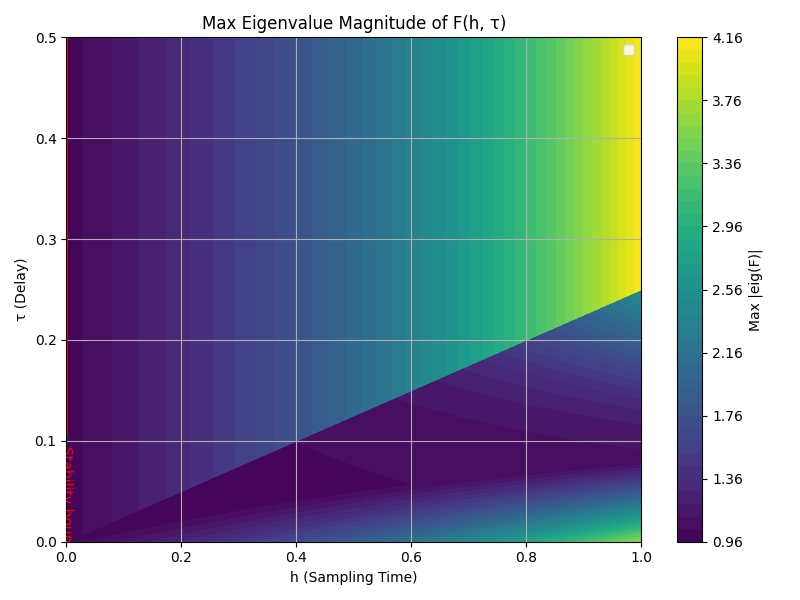
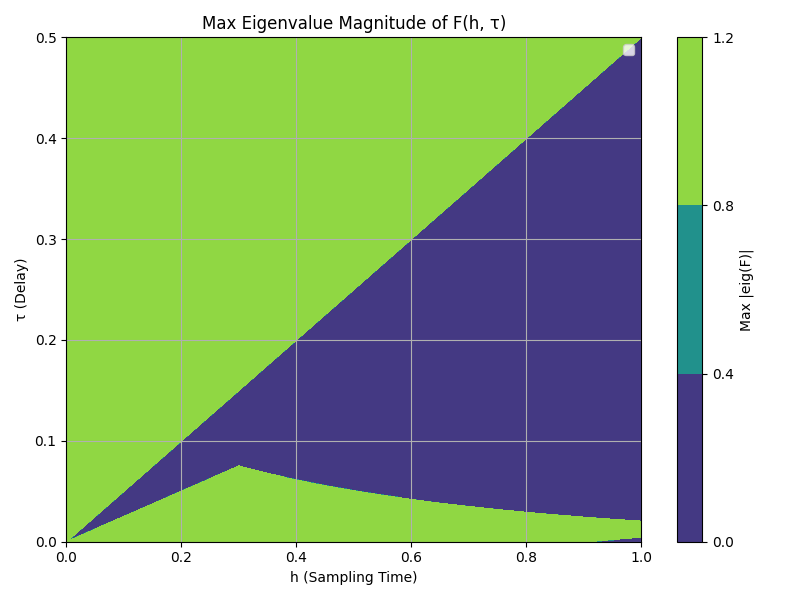
added assignment 1 Q2 logic and pictures

diff --git a/2nd year/Assignment1/Assignment1_2026.py b/2nd year/Assignment1/Assignment1_2026.py
@@ -23,7 +23,7 @@ b = 8 # third digit student number
 c = 1 # last digid digit student number
 # iterations
 N = 1000
-K_Samples = 5*N+1
+K_Samples = 51
 h_max = 0.5
 """pre-calculations Kappa"""
 A = np.array([[0,(0.5+c)],[(0.5+abs(a-b)),1]])
@@ -71,17 +71,37 @@ def FG_model_delay(A,B,h,tau):
     if singular == n:
         Fx = expm(A*h) # 2x2
         temp = expm(A*(h-tau)) # 2x2
-        Fu = ((Fx-temp)@(np.linalg.inv(A)))@B # 2x1
+        if tau<=h:
+            Fu = ((Fx-temp)@(np.linalg.inv(A)))@B # 2x1
+        elif tau>h:
+            Fu = np.zeros((n,m)) # 2x1
         G1 = ((temp-np.eye(n))@(np.linalg.inv(A)))@B # 2x1
-        F = np.block([[Fx, Fu, np.zeros((n,m))], [np.zeros((m,n)), np.zeros((m,m)), np.zeros((m,m))], [np.zeros((m,n)), np.eye(m),np.zeros((m,m))]]) # 4x4
-        G = np.block([[G1],[np.eye(m)],[np.zeros((m,m))]])
-        ##np.vstack((G1, np.eye(m)), np.zeros((m,m))) # 4x1
+        F = np.block([[Fx, Fu], [np.zeros((m,n+m))]]) # 3x3
+        G = np.block([[G1],[np.eye(m)]])
+        ##np.vstack((G1, np.eye(m)), np.zeros((m,m))) # 3x1
         return F,G
     else:
         # if not invertable:
         print("A is a singular matrix")
         return np.nan,np.nan,np.nan,np.nan,np.nan
 
+def find_optimal_K(A,B,h,tau_vals):
+    n = A.shape[0]
+    m = B.shape[1]
+    K = cp.Variable((2,1))
+    stable_points = []
+    constraints = []
+    for tau in tau_vals:
+        F,G = FG_model_delay(A,B,h,tau)
+        Acl = F-G@(K.reshape(1,-1))
+        constraints += [cp.lambda_max(A_cl)<1]
+    prob = cp.Problem(cp.Maximize(cp.trace(tau)), constraints)
+    prob.solve(solver=cp.SCS, max_iters=5000, eps=1e-5)
+    if prob.status == 'optimal':
+        return K.value
+    else:
+        return False
+    
 def calculate_FG_delay_extended(A,B,h,tau):
     # F values:
     n = A.shape[0]
@@ -157,7 +177,8 @@ def checkElements(F,G,Kappa_vals):
     out = []
     i=0
     for i, K in enumerate(Kappa_vals.T):
-        A_cl = F-G@(K.reshape(1,-1))
+        Kex = np.hstack((K.reshape(1, -1),np.zeros((1,1))))
+        A_cl = F-G@(Kex.reshape(1,-1))
         eigenvalues = np.linalg.eigvals(A_cl)
         if (np.max(np.abs(eigenvalues)) < 1):
             out.append(i) # index of Kappa
@@ -211,58 +232,65 @@ plt.show()
 
 
 """ Question 2 """
+# 
 tau_vals = np.linspace(0, 2*h_max, N)
 max_eig_delay_total = []
 best_K_index = []
 # with extended state an extended Kappa is needed aswell using the static controller:
-Ke = np.hstack((K, np.eye(1), np.zeros((1,1)))) # 1x4 since [K,1,0], not sure about 1 though?
+Ke = np.hstack((K, np.zeros((1,1)))) # 1x3
 
-#Ke_vals = np.linspace(-10, 10, K_Samples) #?
-#dynamicKappa_vals = np.stack([np.ones_like(Ke_vals)*K[0,0],np.ones_like(Ke_vals)*K[0,1], Ke_vals]) #?
 for i,h in enumerate(h_vals):
     print("progress Q2:",(i/N)*100,"%")
     max_eig_delay = []
     for tau in tau_vals:
-        if tau<h: # case where tau < h
+        if tau<2*h: # case where tau < 2h
             F,G = FG_model_delay(A,B,h,tau)
             A_cl = F-G@Ke
             eigenvalues = np.linalg.eigvals(A_cl)
             temp = np.max(np.abs(eigenvalues))
             max_eig_delay.append(temp)
-        else: # case where tau > h
-            F,_ = FG_model_delay(A,B,h,tau)
-            eigenvalues = np.linalg.eigvals(F)
-            temp = np.max(np.abs(eigenvalues))
-            max_eig_delay.append(temp)
+        else: # case where exceeds boundary of 2h
+            max_eig_delay.append(np.nan)
     max_eig_delay_total.append(max_eig_delay)
 
-# h= 0.6 is arbitrarily chosen while being stable at tau=0
+# h= 0.3 is arbitrarily chosen while being stable at tau=0
 # we use the dynamic Kappa for this with variable dynamic control.
-#h = 0.6
-#for tau in tau_vals:
-#    if tau<h:
-#        F,G = calculate_FG_delay(A,B,h,tau)
-#        bestKappaIndex.extend(checkElements(F,G,dynamicKappa_vals))
+k1_range = np.linspace(-20, 20, K_Samples)
+k2_range = np.linspace(-20, 20, K_Samples)
 
-#commonKappa = Counter(bestKappaIndex).most_common(10)
-#print(commonKappa)
-#print("The most valid values for K are:", dynamicKappa_vals[:,commonKappa[0][0]])
+K1, K2 = np.meshgrid(k1_range, k2_range)
+
+dynamic_K_vals = np.vstack([
+    K1.ravel(),
+    K2.ravel()
+])
+print(dynamic_K_vals)
+best_K_Index = []
+h = 0.3
+for i,tau in enumerate(tau_vals):
+    print("progress Q2, K optimisation:",(i/N)*100,"%")
+    if tau<2*h:
+        F,G = FG_model_delay(A,B,h,tau)
+        best_K_Index.extend(checkElements(F,G,dynamic_K_vals))
+
+commonKappa = Counter(best_K_Index)
+print(commonKappa)
+#print("The most valid values for K are:", dynamic_K_vals[:,commonKappa[0][0]])
 
 ## Plotting
-
-Z1 = np.array(max_eig_delay_total) # Convert to NumPy array for plotting
+Z1 = np.where(np.array((max_eig_delay_total))>=1,0,1) # Convert to NumPy array for plotting & make 1 for stable, 0 for unstable
 
 # Create meshgrid for contour plot
 H, T = np.meshgrid(h_vals,tau_vals)  # note the order: row = h, column = tau
 
 # Plot contour where max eigenvalue magnitude = 1
 plt.figure(figsize=(8, 6))
-contour = plt.contourf(T, H, Z1, levels=50, cmap='viridis')
+contour = plt.contourf(T, H, Z1, levels=2, cmap='viridis')
 plt.colorbar(contour, label='Max |eig(F)|')
 
 # Add stability boundary (e.g., contour where max eig = 1)
-cs = plt.contour(T, H, Z1, levels=[1.0], colors='red', linewidths=2)
-plt.clabel(cs, inline=True, fmt='Stability boundary', fontsize=10)
+#cs = plt.contour(T, H, Z1, levels=[1.0], colors='red', linewidths=2)
+#plt.clabel(cs, inline=True, fmt='Stability boundary', fontsize=10)
 
 # Labels
 plt.ylabel('τ (Delay)')
@@ -273,6 +301,73 @@ plt.grid(True)
 plt.tight_layout()
 plt.savefig("Q2_stabilityOfNCS.png")
 plt.show()
+
+# Unpack the data
+# Build arrays for heatmap
+k1_vals = []
+k2_vals = []
+counts = []
+
+for idx, count in commonKappa.items():
+    k1_vals.append(dynamic_K_vals[0, idx])   # k1
+    k2_vals.append(dynamic_K_vals[1, idx])   # k2
+    counts.append(count)
+
+k1_vals = np.array(k1_vals)
+k2_vals = np.array(k2_vals)
+counts = np.array(counts)
+print(k1_vals)
+# Create figure
+plt.figure(figsize=(8, 6))
+
+# Heatmap-style scatter plot
+sc = plt.scatter(
+    k1_vals,
+    k2_vals,
+    c=counts,
+    s=120,
+    cmap='hot',
+    edgecolors='black'
+)
+
+# Colorbar
+cbar = plt.colorbar(sc)
+cbar.set_label('Frequency')
+
+# Find highest frequency point
+max_idx = np.argmax(counts)
+
+best_k1 = k1_vals[max_idx]
+best_k2 = k2_vals[max_idx]
+best_count = counts[max_idx]
+
+# Highlight most common region
+plt.scatter(
+    best_k1,
+    best_k2,
+    s=300,
+    facecolors='none',
+    edgecolors='cyan',
+    linewidths=3,
+    label=f'Highest Frequency = {best_count}'
+)
+
+# Labels
+plt.xlabel('k1')
+plt.ylabel('k2')
+plt.title('Heatmap of Most Common K Values')
+
+plt.legend()
+plt.grid(True)
+plt.tight_layout()
+
+plt.savefig("Q2_mostCommonKappa_heatmap.png")
+plt.show()
+
+print(f"Highest frequency at:")
+print(f"k1 = {best_k1}")
+print(f"k2 = {best_k2}")
+print(f"count = {best_count}")
 
 # temp exit()
 exit()
@@ -294,19 +389,7 @@ for i,h in enumerate(h_vals):
 
 
 #Q2 extra
-# Unpack the data
-kappa_values, counts = zip(*commonKappa)
 
-# Create bar chart
-plt.figure(figsize=(6, 4))
-plt.bar(dynamicKappa_vals[2,kappa_values], counts, color='skyblue')
-plt.xlabel('dynamic Kappa value')
-plt.ylabel('Frequency')
-plt.title('Top 10 Most Common Kappa Index Values')
-plt.grid(axis='y', linestyle='--', alpha=0.9)
-plt.tight_layout()
-plt.savefig("Q2_mostCommonKappa.png")
-plt.show()
 
 
 #Q3